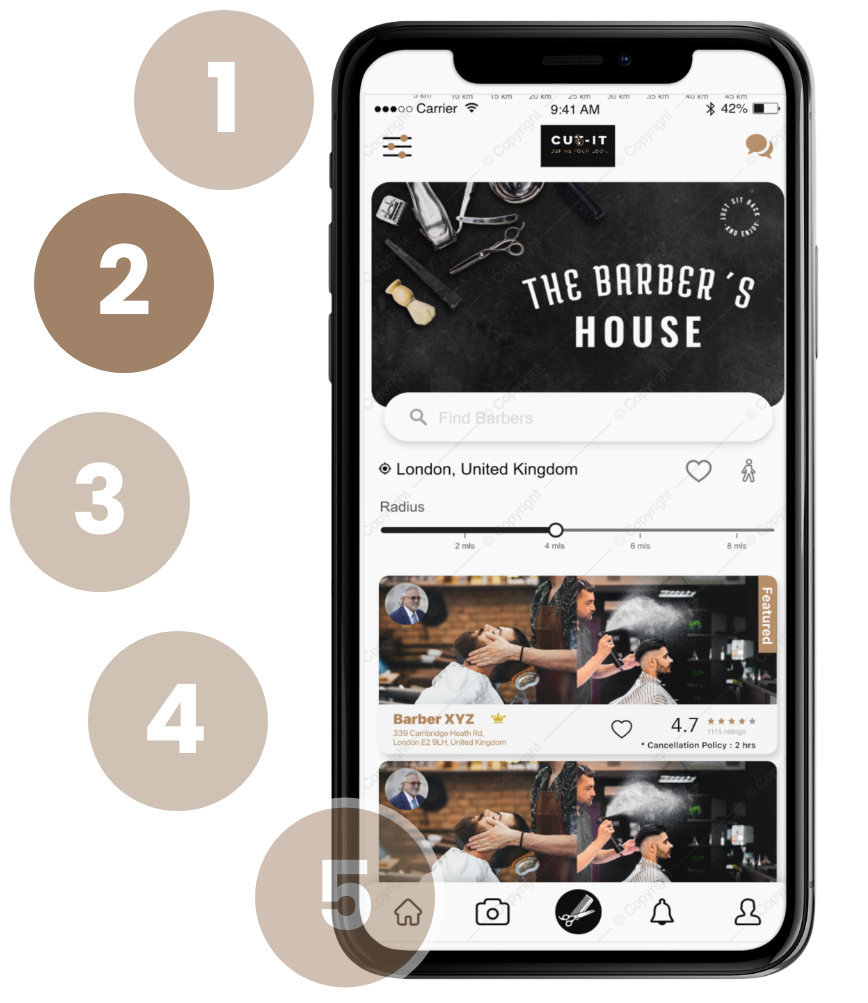
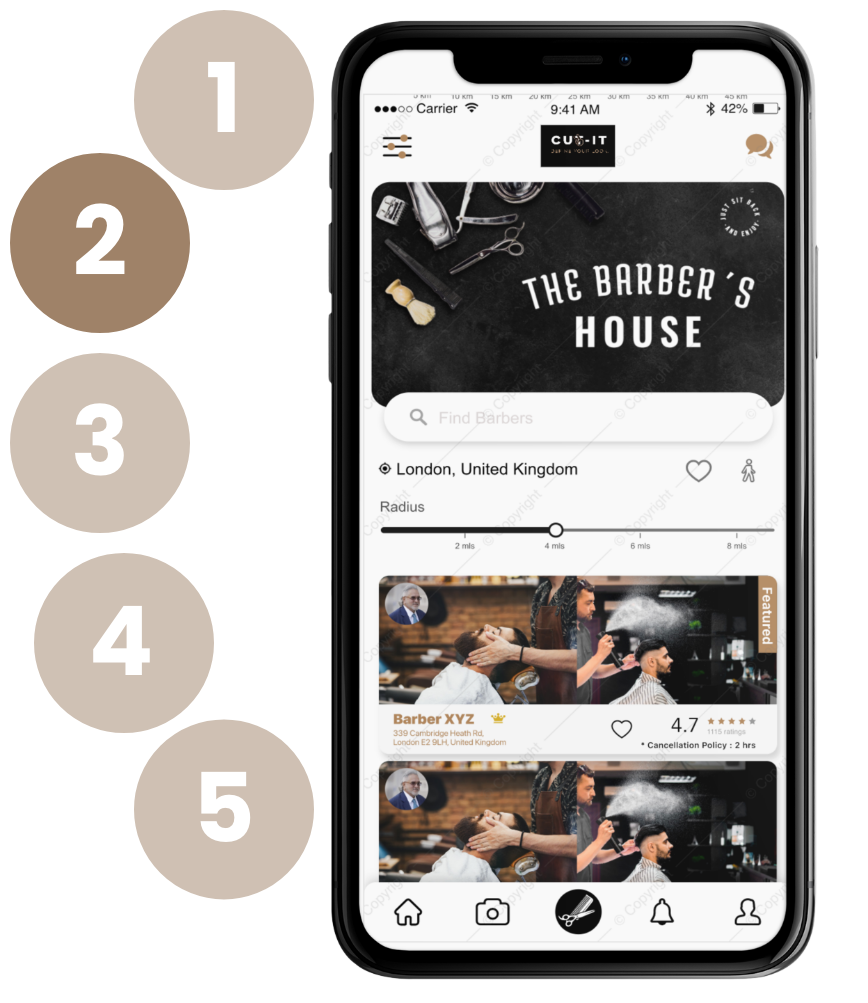
fixed how to images

Changed region(s): [[0.0, 0.1545, 0.4977, 0.989]]

diff --git a/styles.css b/styles.css
@@ -1055,7 +1055,7 @@ body
   }
 
   .appstore-grid-text > p {
-    margin: 2rem 0;
+    margin-bottom: 2rem;
   }
 }
 
@@ -1073,7 +1073,7 @@ body
 
 /*App store buttons*/
 .btn-appstore {
-  max-width: 20rem;
+  width: 20rem;
   height: 6rem;
   display: flex;
   flex-direction: row;
@@ -1108,6 +1108,12 @@ body
 
 .margin-appstore {
   margin: 1.5rem;
+}
+
+@media screen (min-width:900px) {
+  .btn-appstore {
+    margin: 1rem;
+  }
 }
 
 /* DATA SECTION */
@@ -1344,6 +1350,8 @@ body
 .priceplan-container-static {
   display: none;
   text-align: center;
+  max-width: 130rem;
+  overflow-x: scroll;
 }
 
 .priceplan-static-wrapper {
